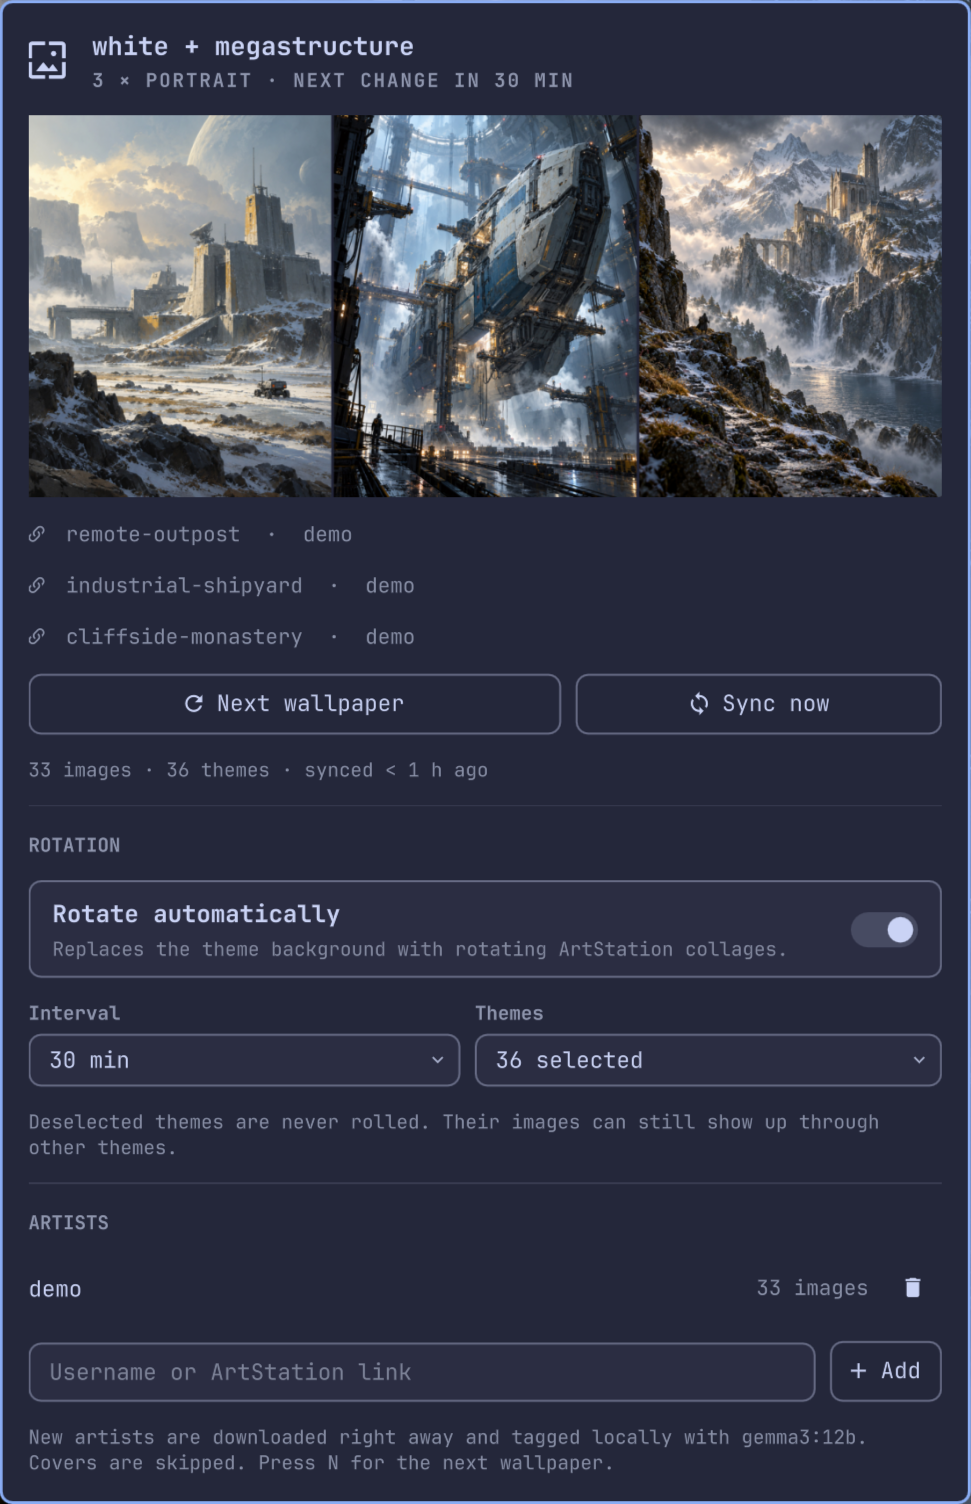
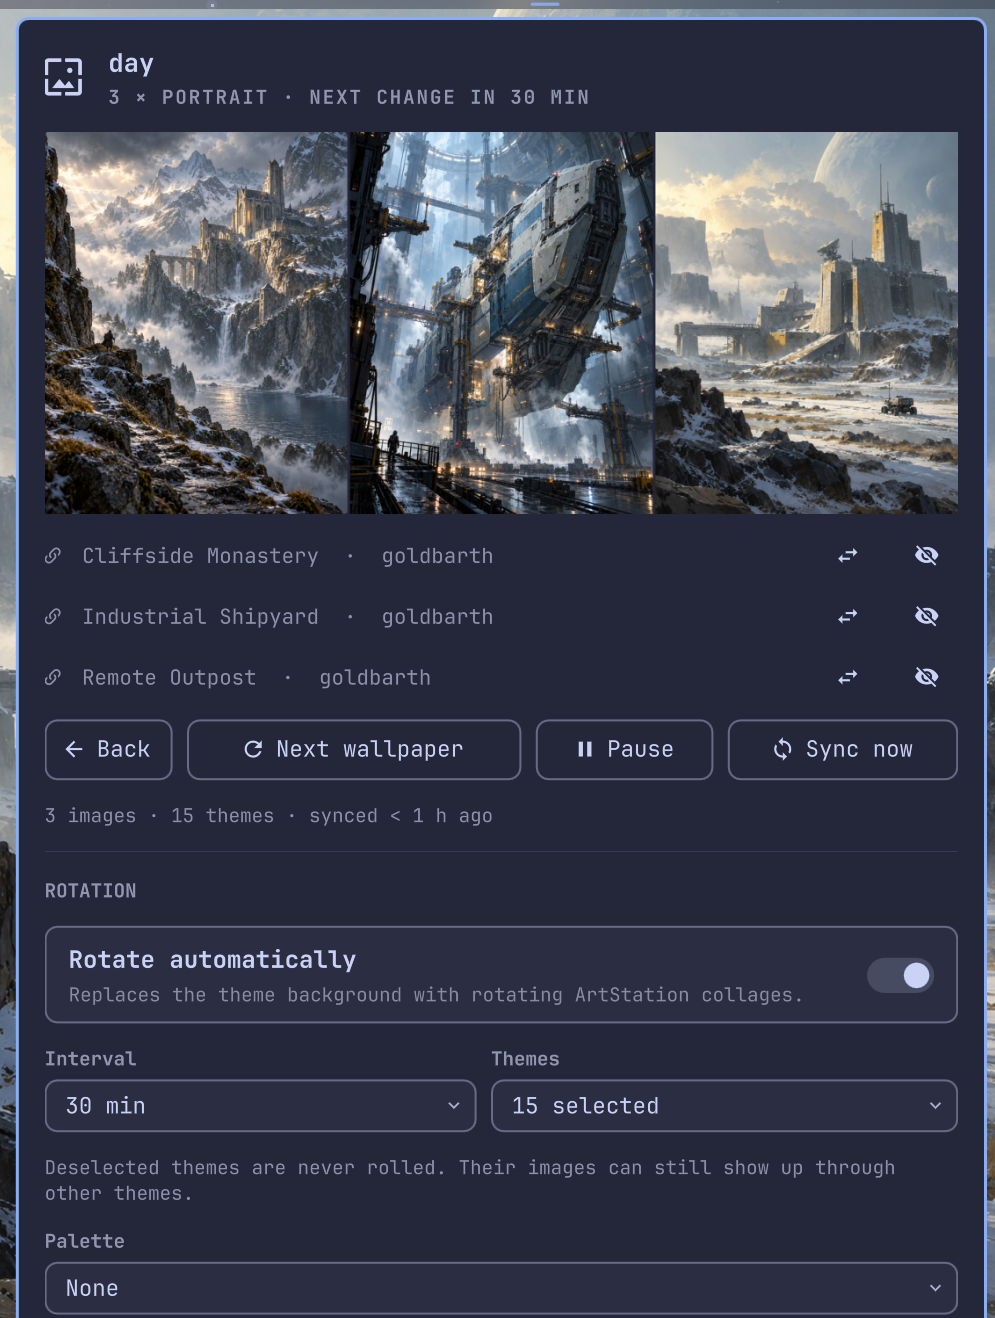
docs: refresh marketplace preview and description for 0.2.0
New screenshots of the 0.2.0 panel with self-made preview artwork
instead of ArtStation images. The manifest description now mentions
palette presets and the pause, back, replace and hide controls.

diff --git a/README.md b/README.md
@@ -33,7 +33,7 @@ It is not affiliated with, endorsed by, or supported by ArtStation or Epic Games
       <sub>Three portraits side by side on 21:9</sub>
     </td>
     <td align="center" valign="top">
-      <img src="assets/preview-options.png" alt="The Tessella panel: current collage with image titles, rotation toggle, interval, themes and artists" width="162">
+      <img src="assets/preview-options.png" alt="The Tessella panel: current collage with replace and hide per image, Back, Next, Pause, rotation, interval, themes and palette" width="190">
       <br>
       <sub>The panel</sub>
     </td>
